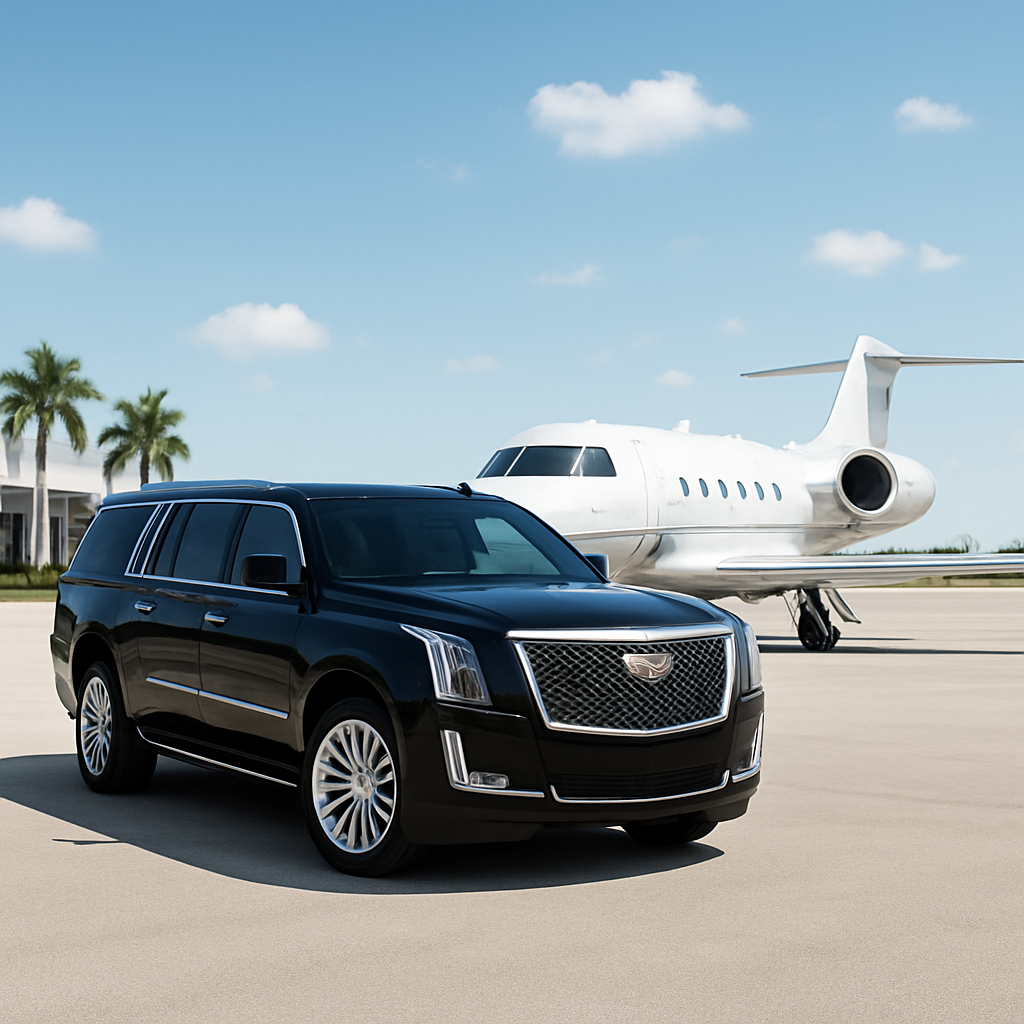
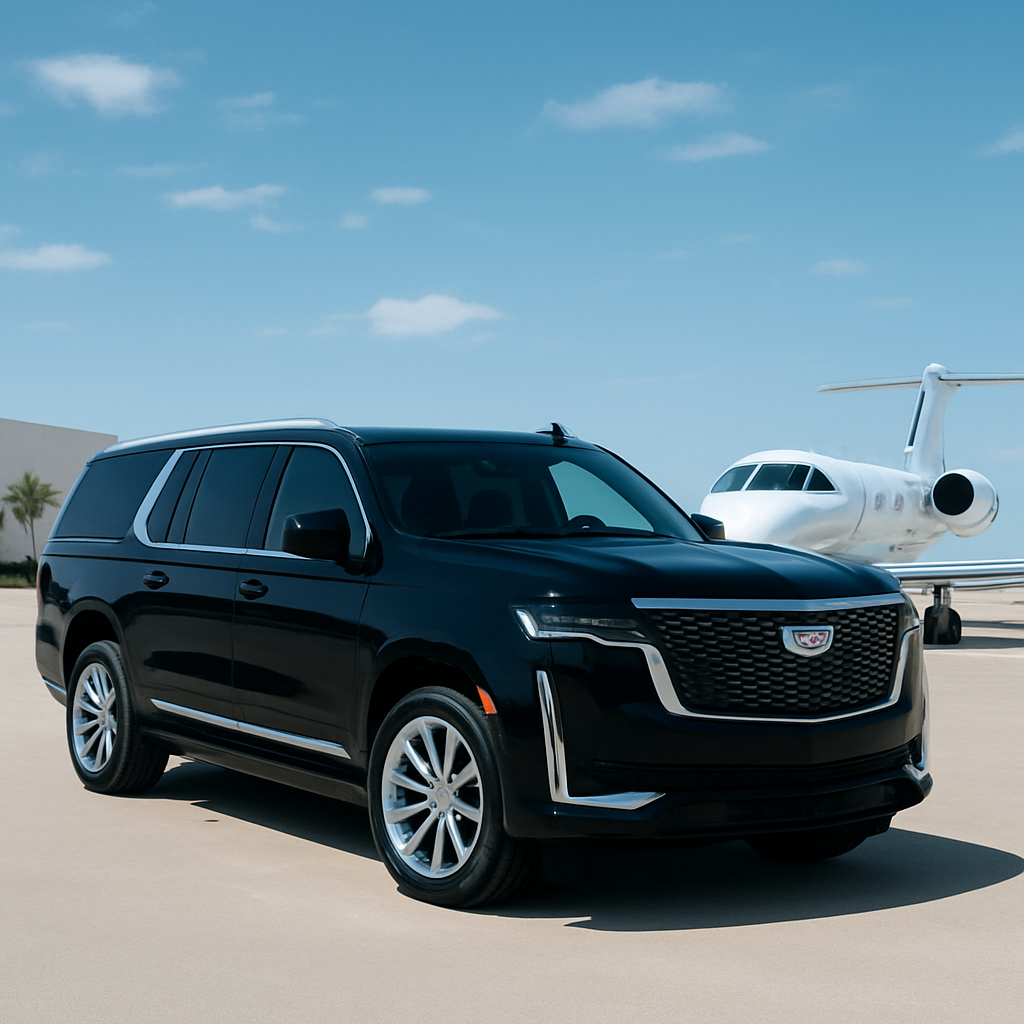
feat: streamline hero section content and remove WhatsApp link

diff --git a/index.html b/index.html
@@ -569,21 +569,11 @@
     <div class="hero-overlay"></div>
     <div class="wrap hero-inner">
       <div class="hero-copy">
-        <span class="eyebrow"><span class="dot"></span> Private &middot; Aviation &middot; South Florida</span>
         <h1>Ultra-Luxury Rentals &amp; Private Chauffeur Transportation</h1>
-        <p class="lead">Connecting elite clients, companies, hotels, aviation, events, and private travelers with exceptional vehicles and white-glove transportation across South Florida.</p>
+        <p class="lead">Exceptional vehicles and white-glove private transportation across South Florida.</p>
         <div class="hero-cta">
           <a class="btn btn-light" href="#reserve">Reserve Now</a>
           <a class="btn btn-outline-light" href="#fleet">Explore Fleet</a>
-          <a class="btn btn-wa" href="https://wa.me/13058501737" target="_blank" rel="noopener">
-            <svg width="17" height="17" viewBox="0 0 24 24" fill="currentColor"><path d="M.057 24l1.687-6.163a11.867 11.867 0 01-1.587-5.946C.16 5.335 5.495 0 12.05 0a11.82 11.82 0 018.413 3.488 11.82 11.82 0 013.48 8.414c-.003 6.557-5.338 11.892-11.893 11.892a11.9 11.9 0 01-5.688-1.448L.057 24zm6.597-3.807c1.676.995 3.276 1.591 5.392 1.592 5.448 0 9.886-4.434 9.889-9.885.002-5.462-4.415-9.89-9.881-9.892-5.452 0-9.887 4.434-9.889 9.884a9.86 9.86 0 001.515 5.26l-.999 3.648 3.973-1.039z"/></svg>
-            WhatsApp Concierge
-          </a>
-        </div>
-        <div class="hero-stats">
-          <div class="stat"><strong>24/7</strong><span>Concierge</span></div>
-          <div class="stat"><strong>White-Glove</strong><span>Service</span></div>
-          <div class="stat"><strong>South FL</strong><span>Coverage</span></div>
         </div>
       </div>
     </div>